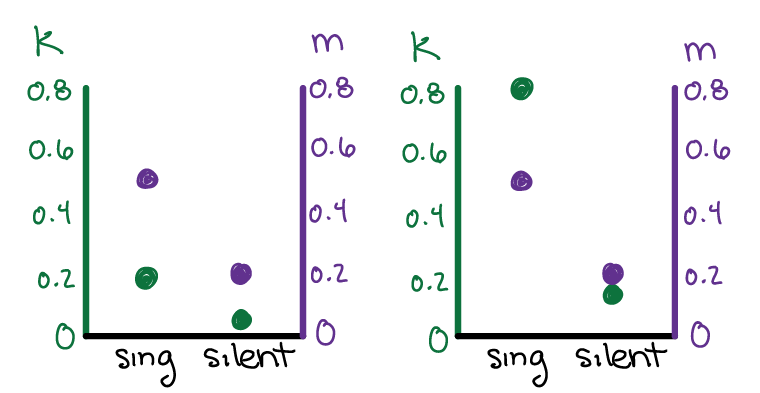
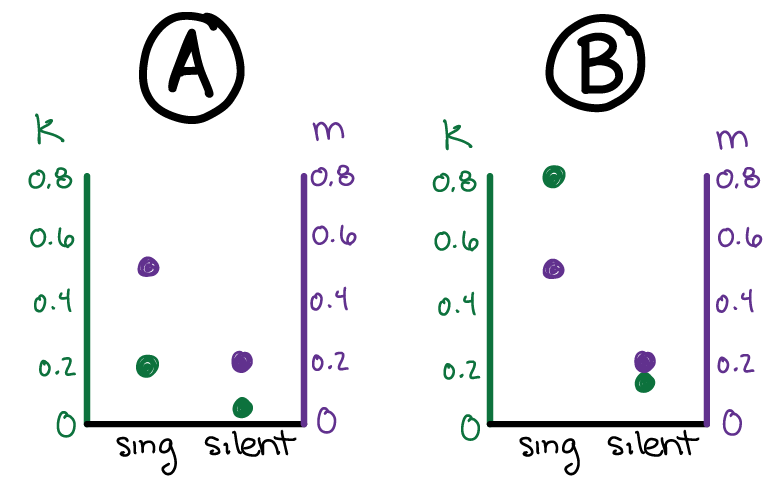
edits to phylogeny and evolution exam

diff --git a/assessment-sum/assessment_phylogeny-evolution.md b/assessment-sum/assessment_phylogeny-evolution.md
@@ -12,11 +12,11 @@
 
 ***Q1: Figure 1 shows a [ phylogeny / character mapping / ancestral state reconstruction ] of migratory behavior among the genus thrushes. (Choose one and re-write the sentence)***
 
-***Q2: Based on an argument of parsimony, consider the phylogeny of all species from the last common ancestor (LCA) at "A" (green arrow). If the LCA at A was _______________, there would have been _______ evolutionary changes. If the LCA at A was _______________, there would have been ___________ evolutionary changes. (Re-write the sentence with the blanks filled in based on the results under each alternative hypothesis)***
+***Q2: Based on an argument of parsimony, consider the phylogeny of the 6 species descendent from the last common ancestor (LCA) at "A" (green arrow). If the LCA at A was _______________, there would have been _______ evolutionary changes. If the LCA at A was _______________, there would have been ___________ evolutionary changes. (Re-write the sentence with the blanks filled in based on the results under each alternative hypothesis. You can include diagrams to show your work for possible partial credit if you fill in the blanks wrong.)***
 
-***Q3: How would an analysis starting from "B" (red arrow) change your conclusions (based on an argument of parsimony) about the LCA at "A"?***
+***Q3: How would an analysis starting from "B" (red arrow; 7 extant species) change your conclusions (based on an argument of parsimony) about the LCA at "A"?***
 
-***Q4: Finally, by performing an ancestral state reconstruction of the LCA at "C" (black arrow), you would conclude that _____________ behavior evolved independently _________ times among thrush. In other words, ________________ is a [derived / inherited] trait among thrush.***
+***Q4: Finally, by performing an ancestral state reconstruction of the LCA at "C" (black arrow; all 13 extant species), you would conclude that _____________ behavior evolved independently _________ times among thrush. In other words, ________________ is a [derived / inherited] trait among thrush.***
 
 
 ## Section 2: Mate-finding behavior in crickets
@@ -25,9 +25,9 @@ In crickets, there are two major phenotype variants for mate-finding behavior: *
 
 ***Silent*** crickets travel around to search silently for potential mates.
 
-***Singing*** crickets have specialized wing anatomy (with a *file* and a *scraper* that they use to produce a species-specific [song](https://youtu.be/GP5NpXcYc8A). This song attracts females to them (rather than them needing to go searching for females). 
+***Singing*** crickets have specialized wing anatomy (with a *file* and a *scraper*) that they use to produce a species-specific [song](https://youtu.be/GP5NpXcYc8A). This song attracts females to them (rather than them needing to go searching for females). 
 
-The songs of singing male crickets are very attractive to females. They are able to attract more females than they would otherwise be able to find by silent searching. However, predators of crickets can also hear the song. Singing crickets attract predators and singing therefore increases their predation risk compared to if they were silent. 
+The songs of singing male crickets are very attractive to females. Singing crickets are able to attract more females than they would otherwise be able to find by silent searching. However, predators of crickets can also hear the song. Singing therefore increases their predation risk compared to if they were silent. 
 
 We can use either optimality theory or game theory to examine the evolutionary explanations for these mate-finding phenotype variants. First, you will investigate an optimality theory model (Figure 2), then you will investigate a game theory model (Figure 4), and finally you will compare the two. 
 
@@ -36,25 +36,27 @@ We can use either optimality theory or game theory to examine the evolutionary e
 :align: center
 :::
 
-**Figure 2:** *Optimality theory model of two alternative behavioral phenotypes of advertisement behavior in male crickets. There are two factors hypothesized to exert selective pressure on advertisement behavior in crickets. $m$ = mating success; $k$ = risk of predation.*
+**Figure 2:** *Optimality theory model for two alternative behavioral phenotypes of mate-finding behavior in male crickets. There are two factors hypothesized to exert selective pressure on mate-finding behavior in crickets. $m$ = mating success; $k$ = risk of predation.*
 
-***Q5: According to the optimality theory model (Figure 2), for the singing phenotype to be evolutionarily stable over the silent phenotype, the increase in mating success from singing must be [bigger / smaller] than the increase in _________________ due to singing.***
+***Q5: According to the optimality theory model (Figure 2), The singing phenotype would be evolutionarily stable over the silent phenotype if the increase in mating success due to singing was [bigger / smaller] than the increase in _________________ due to singing (compared to silent).***
 
 ***Q6: According to the optimality theory model (Figure 2), the average fitness of the singing phenotype could depend on:  
-		1. whether conspecifics sang or were silent  
-		2. the number of predators in the environment  
+		1. whether other conspecifics sang or were silent  
+		2. the number of predators in the environment (and therefore the risk of predation)  
 		3. whether $m > k$ or $m < k$ for the silent phenotype  
 (Select the one correct choice. Then provide an explanation why the two answers that you did not choose were incorrect)***
 
 
-***Q7: Examine the data in Figure 3. Under which condition (A or B) would you predict singing will be the optimal phenotype (versus silent)?***
+***Q7: Examine the data in Figure 3.  
+		- Under which condition (A or B) would you predict singing will be the optimal phenotype (versus silent)?  
+		- Why (according to the optimality theory model $F=m-k$?***
 
 :::{image} /images/optimality-theory-crickets-mock-data-exam-example.png
 :width: 400
 :align: center
 :::
 
-**Figure 3:** *Example data to answer question 7. Value of $m$ in each condition plotted with the symbol ```m```. Value of $k$ in each condition plotted with the symbol ```k```.* 
+**Figure 3:** *Example data to answer question 7. Value of $m$ in each condition plotted in purple on the right-hand y-axis. Value of $k$ in each condition plotted in gren on the left-hand y-axis.* 
 
 
 :::{image} /images/game-theory-cricket-singing-exam-example.png
@@ -62,18 +64,26 @@ We can use either optimality theory or game theory to examine the evolutionary e
 :align: center
 :::
 
-**Figure 4:** *Game theory model of two alternative behavioral phenotypes of advertisement behavior in male crickets. Singing male crickets advertise themselves to potential female mates by singing. Silent male crickets do not advertise themselves to female mates. However, silent male crickets are attracted to the song of singing male crickets and try to sneak mating with females that are also attracted to the songs. There are three factors hypothesized to exert selective pressure on advertisement behavior in crickets. $k$ = the risk/likelihood of predation; $b$ = boost to mating success gained by singing compared to being silent; $n$ = mating success without any singing advertisements.* **NOTE KP: EDIT -N to just N**
+**Figure 4:** *Game theory model of singing versus silent mate-finding behavior phenotypes in male crickets. Singing male crickets advertise themselves to potential female mates by singing. Silent male crickets do not advertise themselves to female mates. However, silent male crickets are attracted to the song of singing male crickets and try to sneak mating with females that are also attracted to the songs. There are three factors hypothesized to exert selective pressure on these phenotypes. $k$ = the risk/likelihood of predation; $b$ = boost to mating success gained by singing compared to being silent; $n$ = decrease in mating success without any singing male crickets in the population to attract females.* 
 
-***Q: ***
+***Q8: According to this model, the fitness of singing [ DOES / DOES NOT ] depend on the behavioral phenotype of conspecifics. When the population is comprised of all singers, the fitness of a singer is _____________. When the population is comprised of all (mostly) silent, a rare mutant singer has an average fitness of ___________.***
 
-***Q: ***
+***Q9: Find the conditions (simplified inequalitie(s)) when a population comprised of all singers would be evolutionarily stable (when silent phenotype cannot "invade" the population). Show your work.***
 
+***Q10: A population comprised of all singers would be evolutionarily stable when:  
+		- the risk of predation due to singing is less than the boost to mating due to singing.   
+		- the risk of predation due to singing is greater than the boost to mating due to singing.  
+		- the boost in mating due to singing is actually a negative numner.  
+		- the risk of predation due to singing is less than both the boost to mating due to singing and the decrease in mating due to the absence of singers in the population.  
+		(Pick the one best option to complete the sentence and re-write the complete sentence.***
 
+***Q11: Under what conditions would you predict a population comprising both singing and silent crickets simultaneously? Show your work.***
 
-
-Silent versus Satellite Crickets: [To mate or be eaten: tree cricket behaviour in the presence of a predator]https://www.britishecologicalsociety.org/to-mate-or-be-eaten-tree-cricket-behaviour-in-the-presence-of-a-predator/ and [Silent night: adaptive disappearance of a sexual signal in a parasitized population of field crickets](https://doi-org.ezproxy.wesleyan.edu/10.1098/rsbl.2006.0539) and [A simulation model of the effects of frequency dependence,
-density dependence and parasitoid flies on
-the fitness of male field crickets](https://doi.org/10.1016/j.ecolmodel.2003.07.001)
+***Q12: Which is a more appropriate model (optimality theory or game theory) for understanding the mate-finding behavior of crickets, and why?  
+		- Game Theory, because the fitness of the mating behaviors likely do NOT depend on the strategies of conspecifics.
+		- Game Theory, because the fitness of the mating behaviors likely DO depend on the strategies of conspecifics.
+		- Optimality Theory, the fitness of the mating behaviors likely DO depend on the strategies of conspecifics.
+		- Game theory, because a mixed population of singing and silent is likely always evolutionarily stable.***
 
 
 <!-- 
@@ -101,12 +111,12 @@ Infanticide has a high benefit and a low cost. The high benefit is because eatin
 :::
 
 - Can you think of any alternative hypotheses or factors? -->
----
+<!-- ---
 
 Code breaking of escape by tentacled snake (read a Ken Catania paper?)
 
 What is the FAP of the fish? what is the sign stimulus? What is the code-breaking behavior? How would the escape behavior of fish likely start to differ in environments where tentacled snakes live? Why might the escape behavior persist 'as-is' even in environments where tentacled snakes live (ie. what other selection pressures are there on the escape behavior)?
 
 
-
+ -->
 
